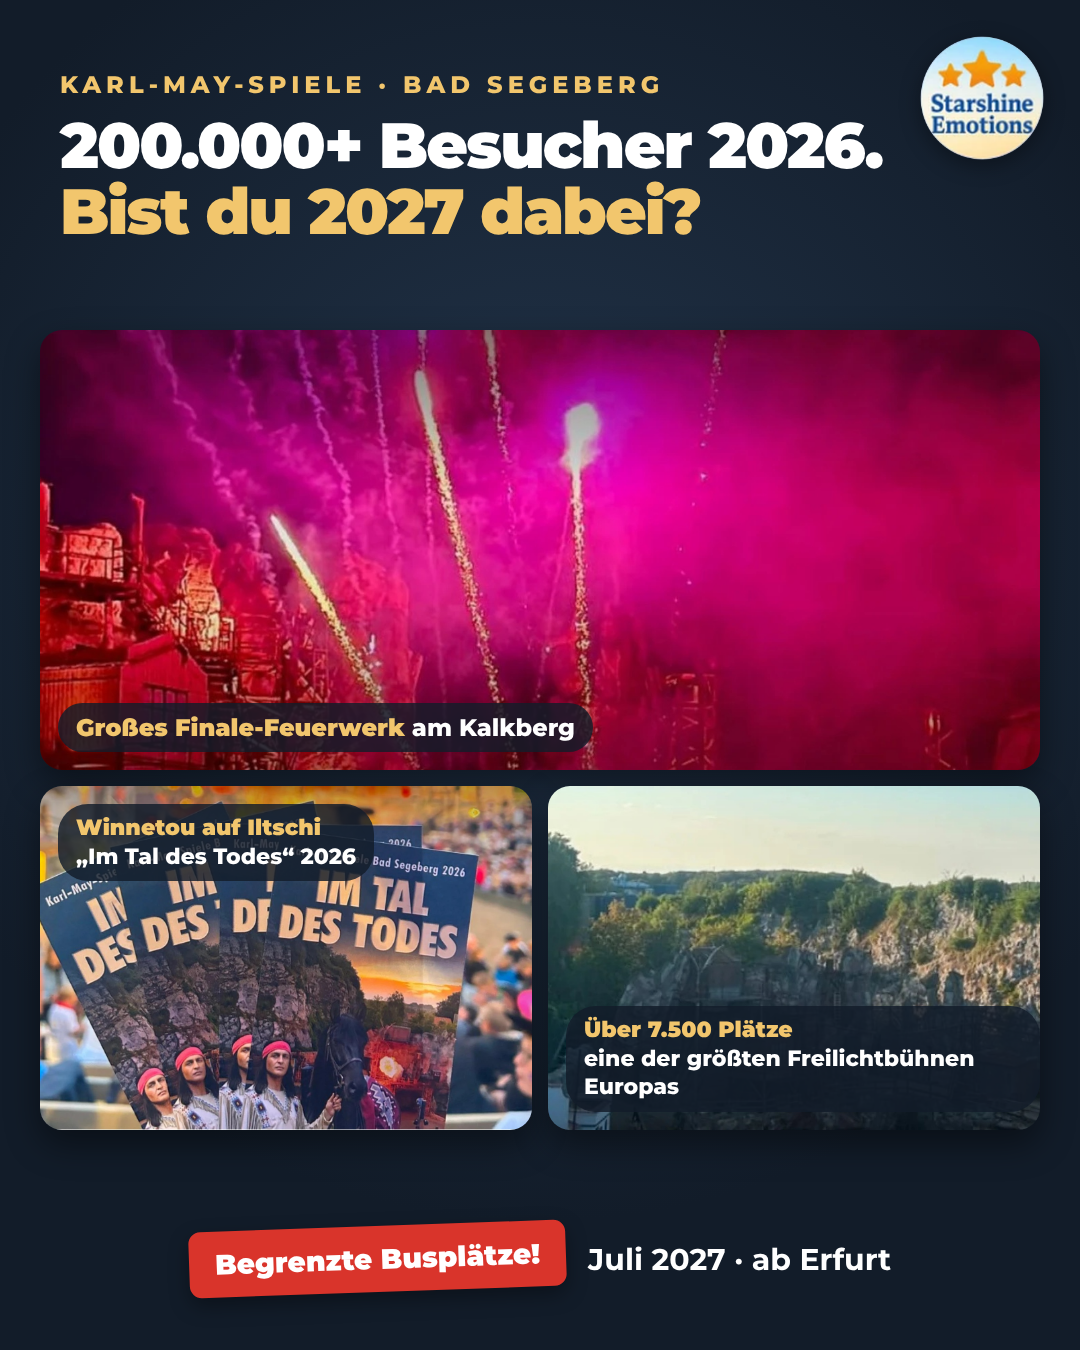
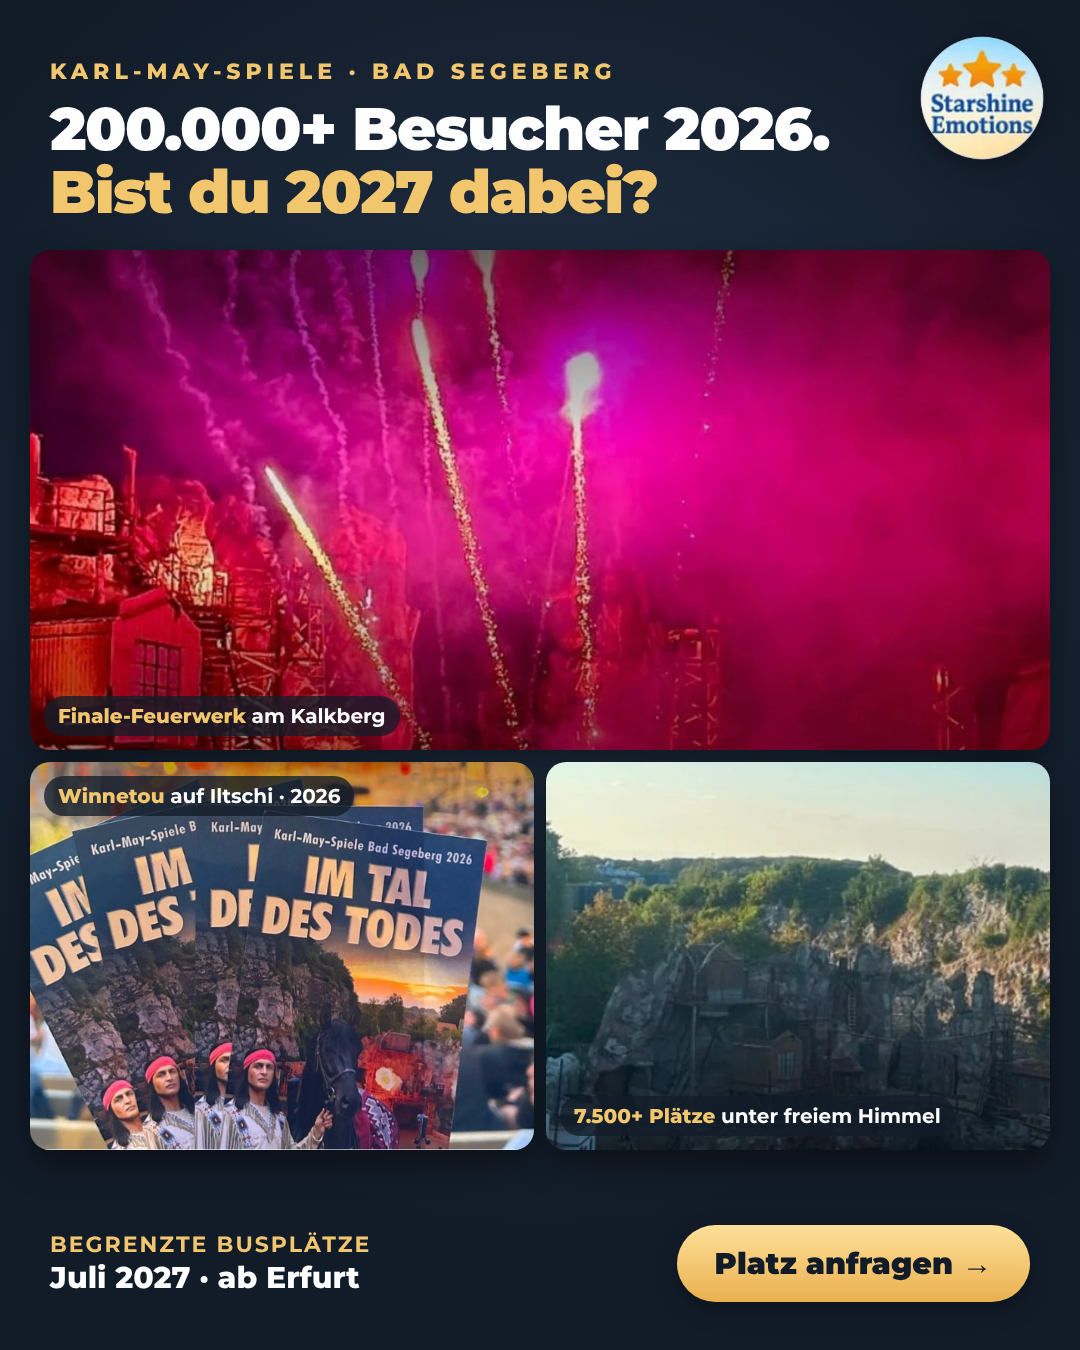
Give post 01 images more room, smaller labels, matching CTA
Claude-Session: https://claude.ai/code/session_01MYsT5PUrxmX4pbkuNXz2ag

diff --git a/creatives/organic/01-kulisse.html b/creatives/organic/01-kulisse.html
@@ -1,25 +1,26 @@
 <!doctype html><html><head><meta charset="utf-8"><link href="https://fonts.googleapis.com/css2?family=Rye&family=Montserrat:wght@500;600;700;800;900&display=swap" rel="stylesheet"><link rel="stylesheet" href="_base.css"><style>
 .ad{background:radial-gradient(circle at 50% 40%,#22344a 0%,#121c29 70%)}
-.top{position:absolute;top:70px;left:60px;right:190px;color:#fff}
-.k{font-weight:800;font-size:24px;letter-spacing:5px;color:#F2C66D}
-.h{font-weight:900;font-size:64px;line-height:1.03;letter-spacing:-2px;margin-top:14px}
+.top{position:absolute;top:58px;left:50px;right:190px;color:#fff}
+.k{font-weight:800;font-size:22px;letter-spacing:5px;color:#F2C66D}
+.h{font-weight:900;font-size:60px;line-height:1.05;letter-spacing:-1.5px;margin-top:12px}
 .h em{font-style:normal;color:#F2C66D}
-.grid{position:absolute;left:40px;right:40px;top:330px;height:800px;display:grid;grid-template-columns:1fr 1fr;grid-template-rows:440px 1fr;gap:16px}
-.c{position:relative;border-radius:22px;overflow:hidden;box-shadow:0 14px 34px rgba(0,0,0,.45)}
+.grid{position:absolute;left:30px;right:30px;top:250px;height:900px;display:grid;grid-template-columns:1fr 1fr;grid-template-rows:500px 1fr;gap:12px}
+.c{position:relative;border-radius:20px;overflow:hidden;box-shadow:0 14px 34px rgba(0,0,0,.45)}
 .c img{width:100%;height:100%;object-fit:cover;display:block}
 .c.big{grid-column:1 / 3}
-.c span{position:absolute;left:18px;bottom:18px;background:rgba(18,28,41,.82);color:#fff;font-weight:800;font-size:24px;padding:10px 18px;border-radius:30px}
-.c span b{color:#F2C66D}
-.foot{position:absolute;left:40px;right:40px;bottom:58px;display:flex;align-items:center;justify-content:center;gap:22px}
-.badge{background:#D9342B;color:#fff;font-weight:900;font-size:28px;padding:16px 26px;border-radius:12px;transform:rotate(-2deg);box-shadow:0 8px 20px rgba(0,0,0,.35)}
-.info{color:#fff;font-weight:700;font-size:30px}
+.c span{position:absolute;left:14px;bottom:14px;background:rgba(18,28,41,.78);color:#fff;font-weight:700;font-size:20px;padding:8px 14px;border-radius:20px}
+.c span b{color:#F2C66D;font-weight:800}
+.foot{position:absolute;left:50px;right:50px;bottom:48px;display:flex;align-items:center;justify-content:space-between}
+.info{color:#fff;font-weight:800;font-size:30px;line-height:1.25}
+.info small{display:block;color:#F2C66D;font-weight:700;font-size:22px;letter-spacing:2px;text-transform:uppercase}
+.cta{background:linear-gradient(180deg,#FFE09A,#E9B04E);color:#121c29;font-weight:900;font-size:30px;padding:20px 38px;border-radius:40px;box-shadow:0 8px 22px rgba(0,0,0,.35)}
 </style></head><body><div class="ad">
 <img class="logo" src="logo-starshine.png">
 <div class="top"><div class="k">KARL-MAY-SPIELE · BAD SEGEBERG</div><div class="h">200.000+ Besucher 2026.<br><em>Bist du 2027 dabei?</em></div></div>
 <div class="grid">
- <div class="c big"><img src="km-feuerwerk.jpg" style="object-position:30% 55%"><span><b>Großes Finale-Feuerwerk</b> am Kalkberg</span></div>
- <div class="c"><img src="km-flyer.jpg" style="object-position:72% 70%"><span style="top:18px;bottom:auto;font-size:22px;line-height:1.3"><b>Winnetou auf Iltschi</b><br>„Im Tal des Todes“ 2026</span></div>
- <div class="c"><img src="km-kulisse-sets.jpg" style="object-position:40% 60%"><span style="font-size:22px;line-height:1.3"><b>Über 7.500 Plätze</b><br>eine der größten Freilichtbühnen Europas</span></div>
+ <div class="c big"><img src="km-feuerwerk.jpg" style="object-position:30% 55%"><span><b>Finale-Feuerwerk</b> am Kalkberg</span></div>
+ <div class="c"><img src="km-flyer.jpg" style="object-position:72% 70%"><span style="top:14px;bottom:auto"><b>Winnetou</b> auf Iltschi · 2026</span></div>
+ <div class="c"><img src="km-kulisse-sets.jpg" style="object-position:40% 60%"><span><b>7.500+ Plätze</b> unter freiem Himmel</span></div>
 </div>
-<div class="foot"><div class="badge">Begrenzte Busplätze!</div><div class="info">Juli 2027 · ab Erfurt</div></div>
+<div class="foot"><div class="info"><small>Begrenzte Busplätze</small>Juli 2027 · ab Erfurt</div><div class="cta">Platz anfragen →</div></div>
 </div></body></html>
